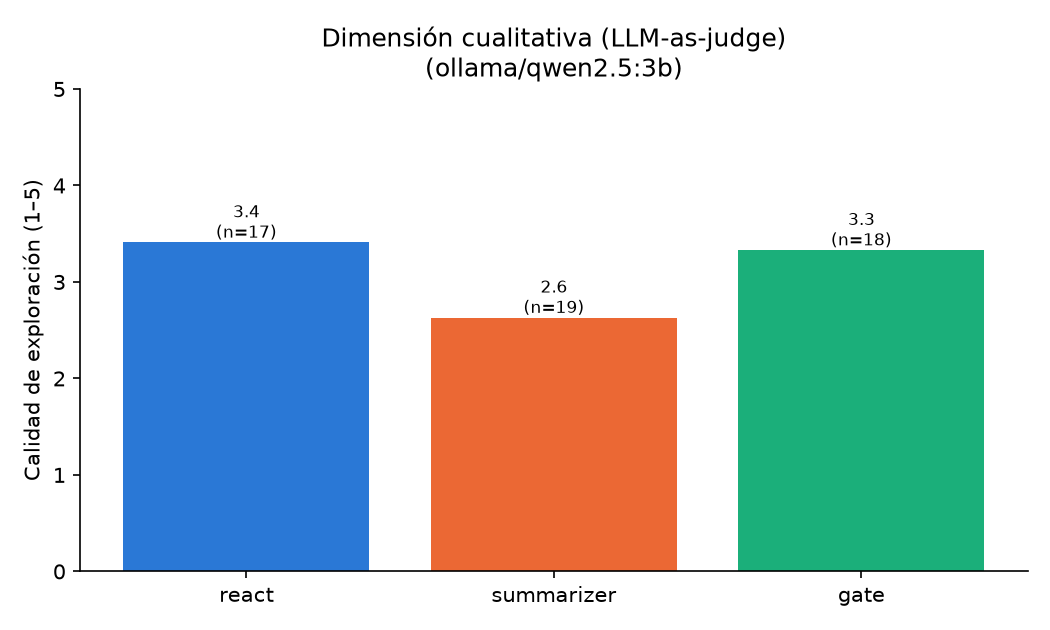
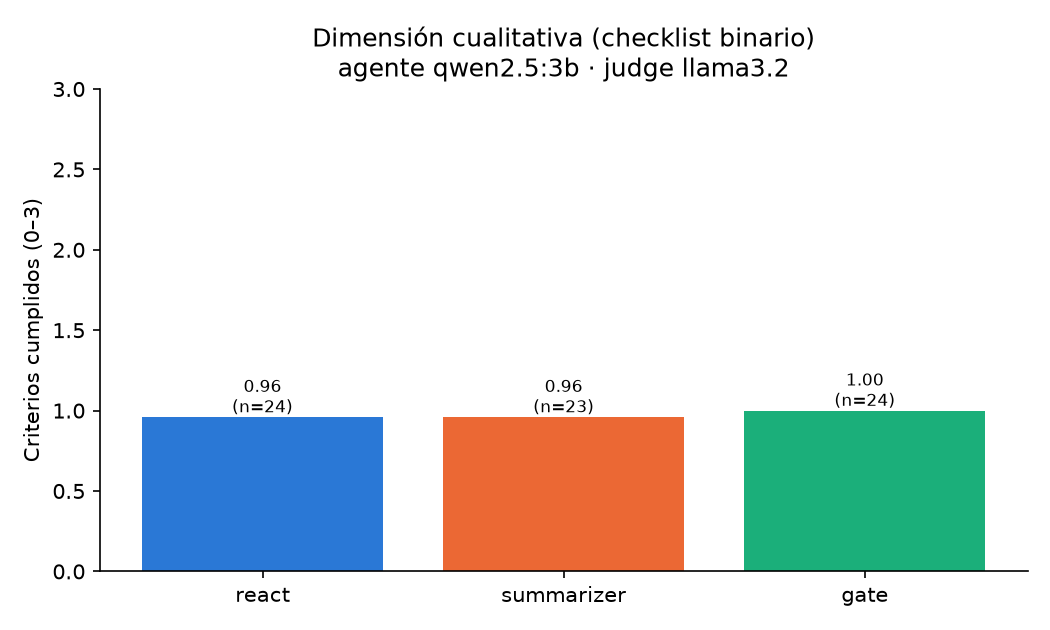
docs(m3): finalizar §3.4/§5 del judge con datos binarios + judge distinto (framing honesto)
§3.4: checklist binario, judge=llama3.2 (distinto de qwen). Scores ~1/3;
yes_rate diagnóstico (casi nula exploracion_ordenada/acciones_apoyadas, alta
sin_redundancia porque abandona temprano). Cobertura 23-24/24 con llama vs
9-12/24 con qwen-judge, atribuida HONESTAMENTE a que llama es mejor emitiendo
salida estructurada (no a que 'distinto cure self-preference', que no medimos).
§5: reescrito -> 'identificamos y CORREGIMOS' los anti-patrones (judge distinto
+ binario); queda como limitación honesta el judge fuerte + kappa.
§5 paso 5: actualizado (distinto+binario hecho; falta nova-pro + kappa).

diff --git a/INFORME_M3.md b/INFORME_M3.md
@@ -270,25 +270,34 @@ frecuencia × costo, son un objetivo de primera —y quien los produce es el
 
 ### 3.4 Resultados cualitativos (LLM-as-judge)
 
-Calidad de exploración (1–5), sobre las trazas reales:
+Checklist binario de 3 criterios (§2.2), **judge = `llama3.2`, distinto del
+agente `qwen2.5:3b`**. El score es cuántos criterios se cumplen (0–3); la tasa de
+SÍ por criterio es lo diagnóstico.
 
-| Config | Casos puntuados | Promedio |
-|---|---:|---:|
-| `react` | 17/24 | **3.41**† |
-| `gate` | 18/24 | 3.33† |
-| `summarizer` | 19/24 | **2.63**† |
+| Config | Casos puntuados | Score (0–3) | ordenada | apoyadas | sin redundancia |
+|---|---:|---:|---:|---:|---:|
+| `react` | 24/24 | 0.96† | 0.00 | 0.12 | 0.83 |
+| `gate` | 24/24 | 1.00† | 0.08 | 0.12 | 0.79 |
+| `summarizer` | 23/24 | 0.96† | 0.13 | 0.22 | 0.61 |
 
 ![Calidad de exploración por configuración](docs/m3_judge.png)
 
-Hallazgo: el **`summarizer` produce trayectorias de menor calidad** (2.63 vs.
-3.41 de `react`), consistente con que loopea más (§3.3) —el resumen no solo
-cuesta más tiempo/tokens, sino que **empeora la trayectoria**. `react` y `gate`
-quedan parejos (~3.4): el gate no degrada la exploración.
+Los scores son **bajos** (~1/3) y el desglose por criterio es coherente con el
+modo de fallo: casi nunca hay **exploración ordenada** (0.00–0.13) ni **acciones
+apoyadas** en lo observado (0.12–0.22), pero sí **poca redundancia** (0.61–0.83)
+—porque el agente **abandona temprano** (prosa), no porque explore bien—. El
+`summarizer` es el único con algo más de redundancia (0.61 vs 0.79–0.83), lo que
+concuerda con que loopea más (§3.3).
 
-**Dato importante:** el judge solo puntuó **17–19/24** —en el resto,
-`qwen2.5:3b` no produjo salida estructurada válida. Es decir, **en un modelo
-chico hasta el judge es poco confiable**; por eso la meta-eval con kappa (§2.2)
-es la que valida sus números, y esperamos cobertura completa en Bedrock.
+**Sobre la confiabilidad del judge (honesto).** El `llama3.2` pudo puntuar
+**23–24/24** de las trazas; cuando el judge fue `qwen2.5:3b` (§3.5), solo pudo
+puntuar **9–12/24**. La lectura correcta **no** es "un judge distinto cura el
+self-preference" —eso es un sesgo de *puntaje*, que no medimos—, sino que
+**`llama3.2` es un judge más confiable para *emitir* el veredicto estructurado**
+(un modelo mejor en tool-calling). El self-preference (comparar puntajes de las
+mismas trazas bajo judge propio vs ajeno) y la capacidad real (kappa contra
+etiquetas humanas) **no los testeamos**: quedan como meta-eval pendiente (§5),
+idealmente con un judge fuerte (`nova-pro`) y el golden set etiquetado.
 
 ### 3.5 Comparación cross-modelo / proveedor
 
@@ -441,17 +450,17 @@ estudio (los demás quedan fijos).
 - **Óptimo como referencia de eficiencia.** El overhead es relativo al óptimo
   **derivado por búsqueda**; es una medida de eficiencia, no una afirmación de
   minimalidad absoluta (aunque coincide con el enunciado en los 8/8).
-- **Judge = LLM, y con dos fallas de diseño que reconocemos.** (1) **Mismo modelo
-  como agente y como judge** (`qwen2.5:3b`). La clase marca dos anti-patrones que
-  incurrimos: **self-preference** (el judge prefiere sus propias salidas → debería
-  ser *distinto del generador*) y **capacidad del judge = techo del eval** (un
-  judge tan débil como el evaluado se pierde los errores que él mismo cometería).
-  Nuestro judge solo pudo puntuar 17–19/24 —evidencia directa de ese techo—; lo
-  correcto es un judge **más capaz** que el agente (p. ej. `nova-pro` juzgando a
-  `nova-lite`). (2) **Escala ordinal 1–5** cuando la clase recomienda **binario por
-  defecto**: nuestras notas se **amontonaron en 3** (tendencia central), justo el
-  problema que el checklist binario evita. Además su confiabilidad depende del
-  kappa contra el golden set humano; un kappa bajo invalidaría sus números.
+- **Judge = LLM: dos anti-patrones que identificamos y corregimos, y lo que
+  queda.** Una primera versión usaba **el mismo modelo como agente y judge** y una
+  **escala ordinal 1–5** —dos anti-patrones de la clase (self-preference y
+  tendencia central; las notas se amontonaban en 3)—. Los **corregimos**: judge
+  **distinto** del agente (`llama3.2` juzga a `qwen`) y **checklist binario** (§2.2,
+  §3.4). *Lo que queda* como limitación honesta: (a) **capacidad del judge** — con
+  modelos locales chicos el judge no es *más capaz* que el agente, solo distinto;
+  lo correcto es un judge fuerte (`nova-pro` juzgando a `nova-lite`); (b) **no
+  medimos self-preference** (requiere comparar puntajes de las mismas trazas bajo
+  judge propio vs ajeno) **ni la kappa** contra etiquetas humanas del golden set.
+  Sin esa calibración, los puntajes del judge son indicativos, no confiables.
 - **Escala del dataset.** 8 escenarios: los intervalos de confianza son anchos.
   pass^k y Wilson lo hacen explícito, pero no lo eliminan.
 - **`max_iterations = 30` es del harness**, no del enunciado: lo subimos para que
@@ -473,10 +482,10 @@ estudio (los demás quedan fijos).
    separar de forma limpia los límites del framework de los del modelo y ver si
    los efectos medidos (costo del resumen, limpieza del gate) persisten cuando la
    accuracy deja de ser 0.
-5. **Arreglar el judge.** Usar un modelo **más capaz y distinto** del agente
-   (evita self-preference y sube el techo del eval), y **convertir la rúbrica
-   ordinal 1–5 en un checklist binario** de sub-criterios (más reproducible, sin
-   la tendencia central que vimos), calibrado con kappa contra el golden set.
+5. **Calibrar el judge.** Ya lo hicimos **distinto** del agente y con **checklist
+   binario**; falta lo más costoso: un judge **más capaz** (`nova-pro` en Bedrock)
+   para subir el techo del eval, y **etiquetar el golden set a mano** para medir la
+   **kappa** (y recién ahí confiar en sus puntajes).
 6. **Memoria más allá de la de trabajo (CoALA).** Hoy el agente usa solo
    **memoria de trabajo** (la ventana). Sumar memoria **episódica** (aprender
    entre escenarios: "en la sala anterior la llave estaba bajo la alfombra") o
